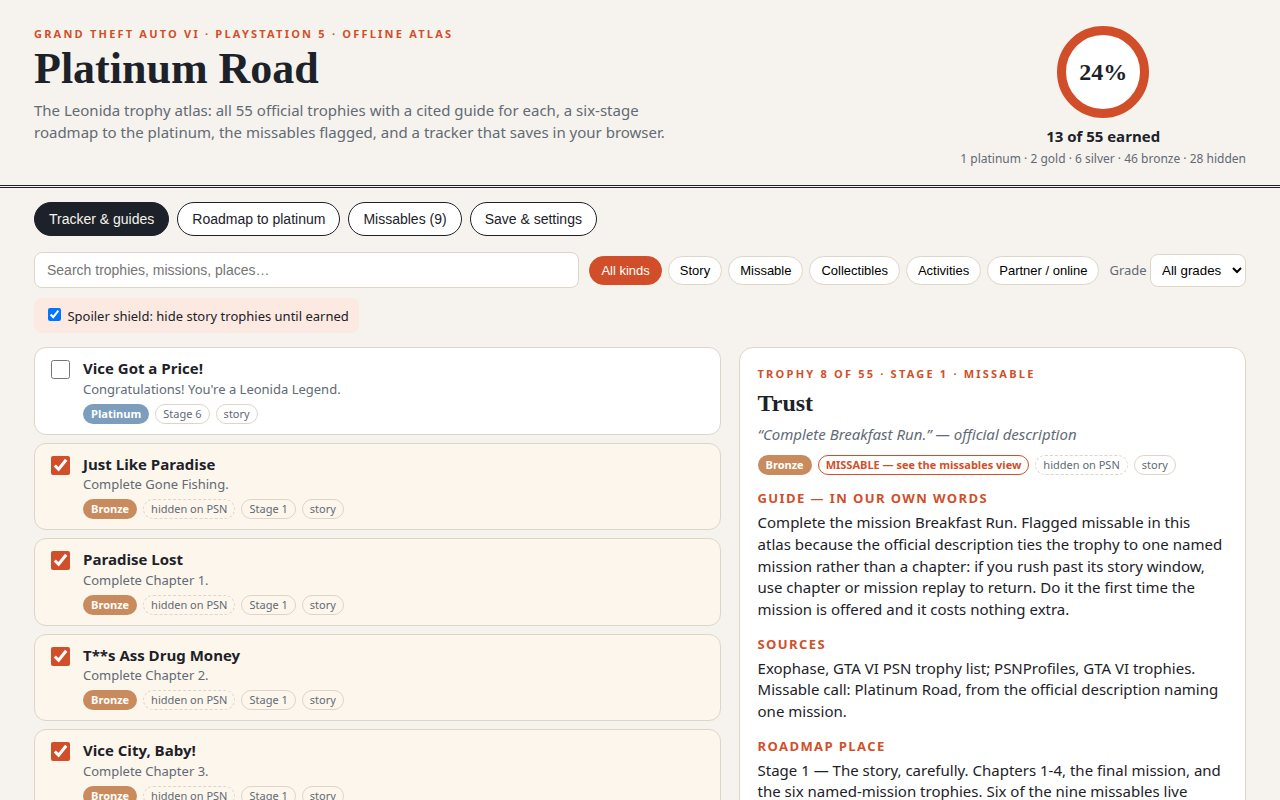
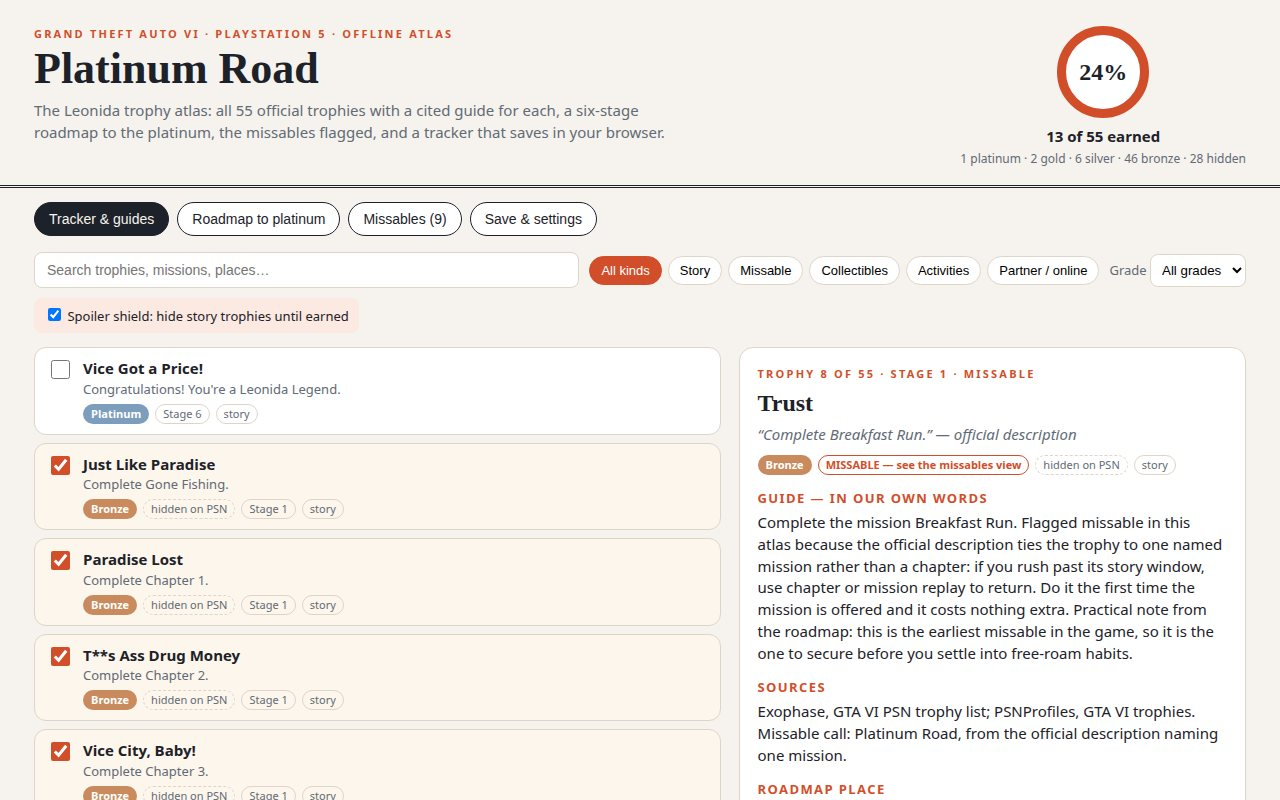
Platinum Road: revision pass (progress title, import validation, Trust roadmap note, polish)

Changed region(s): [[0.5938, 0.75, 0.9688, 1.0]]

diff --git a/app/js/store.js b/app/js/store.js
@@ -33,9 +33,15 @@ export function exportState(state) {
 export async function importState(file) {
   const parsed = JSON.parse(await file.text());
   if (!parsed || !Array.isArray(parsed.earned)) throw new Error("not a Platinum Road progress file");
+  const counts = {};
+  if (parsed.counts && typeof parsed.counts === "object") {
+    for (const [name, value] of Object.entries(parsed.counts)) {
+      if (typeof value === "number" && Number.isFinite(value) && value >= 0) counts[name] = Math.floor(value);
+    }
+  }
   return {
     earned: parsed.earned.filter((n) => typeof n === "string"),
-    counts: parsed.counts && typeof parsed.counts === "object" ? parsed.counts : {},
+    counts,
     spoiler: parsed.spoiler !== false,
   };
 }

diff --git a/app/js/filters.js b/app/js/filters.js
@@ -1,6 +1,9 @@
 // Platinum Road filters: kind chips, grade select, search, and the spoiler rule.
 // Spoiler rule: with the shield on, a story trophy that is hidden on PlayStation and
 // not yet earned shows neither its name nor its official description.
+// Kinds are the official list's shapes: story, collectibles and activities come from
+// the descriptions themselves, missable is this atlas's flag, and partner/online
+// covers the two trophies the descriptions tie to playing with your partner.
 export function isSpoilerHidden(trophy, state) {
   return Boolean(state.spoiler && trophy.hidden && trophy.kinds.includes("story") && !state.earned.includes(trophy.name));
 }

diff --git a/main.ts b/main.ts
@@ -1,4 +1,6 @@
 // Platinum Road — Leonida Trophy Atlas: a working gta6-trophy-guide-01 entry (Node 22, standard library only).
+// Revised after the first full build: the atlas gained a live progress title, import validation and
+// hover/focus polish, and the Trust guide gained its roadmap note — the entry below is unchanged plumbing.
 // The guide is this directory's app/ folder,
 // plain static files a browser opens at app/index.html (ES modules, CSS, no build step), offline: it loads nothing
 // over the network, and its trophy list and guides are app/data/trophies.json. The program hands it in: it copies app/

diff --git a/app/style.css b/app/style.css
@@ -74,3 +74,5 @@ h1 { margin: 0; font-family: Iowan Old Style, Palatino, Georgia, serif; font-siz
 .save-actions button, .import-label { border: 1px solid var(--ink); background: var(--card); padding: 9px 14px; border-radius: 8px; cursor: pointer; font-size: 14px; }
 #exportBtn { background: var(--accent); border-color: var(--accent); color: #fff; font-weight: 700; }
 footer { padding: 14px 34px 24px; color: var(--muted); font-size: 12px; border-top: 1px solid var(--line); margin-top: 12px; }
+:focus-visible { outline: 2px solid var(--accent); outline-offset: 2px; }
+.trophy-row:hover { border-color: var(--accent); }

diff --git a/app/index.html b/app/index.html
@@ -85,7 +85,7 @@
 </section>
 
 <footer>
-  <p>Platinum Road — Leonida Trophy Atlas · 55 trophies · progress is stored only in your browser · unofficial fan guide, not affiliated with Rockstar Games or PlayStation.</p>
+  <p>Platinum Road — Leonida Trophy Atlas · 55 trophies · progress is stored only in your browser · unofficial fan guide, not affiliated with Rockstar Games or PlayStation. Tip: click any trophy in the list to read its guide in the pane on the right.</p>
 </footer>
 
 <script type="module" src="js/main.js"></script>

diff --git a/app/js/main.js b/app/js/main.js
@@ -65,6 +65,7 @@ function renderProgress() {
   const pct = Math.round((state.earned.length / trophies.length) * 100);
   document.getElementById("ringPct").textContent = `${pct}%`;
   document.getElementById("progressLine").textContent = `${state.earned.length} of ${trophies.length} earned`;
+  document.title = `Platinum Road — ${state.earned.length}/55 trophies (${pct}%)`;
 }
 
 function renderAll() {

diff --git a/app/js/views.js b/app/js/views.js
@@ -18,6 +18,7 @@ function tag(text, cls = "") {
 export function trophyRow(trophy, state, { onToggle, onSelect, onCount }) {
   const li = document.createElement("li");
   li.className = "trophy-row";
+  li.title = trophy.name;
   if (state.earned.includes(trophy.name)) li.classList.add("earned");
   const hidden = isSpoilerHidden(trophy, state);
 
